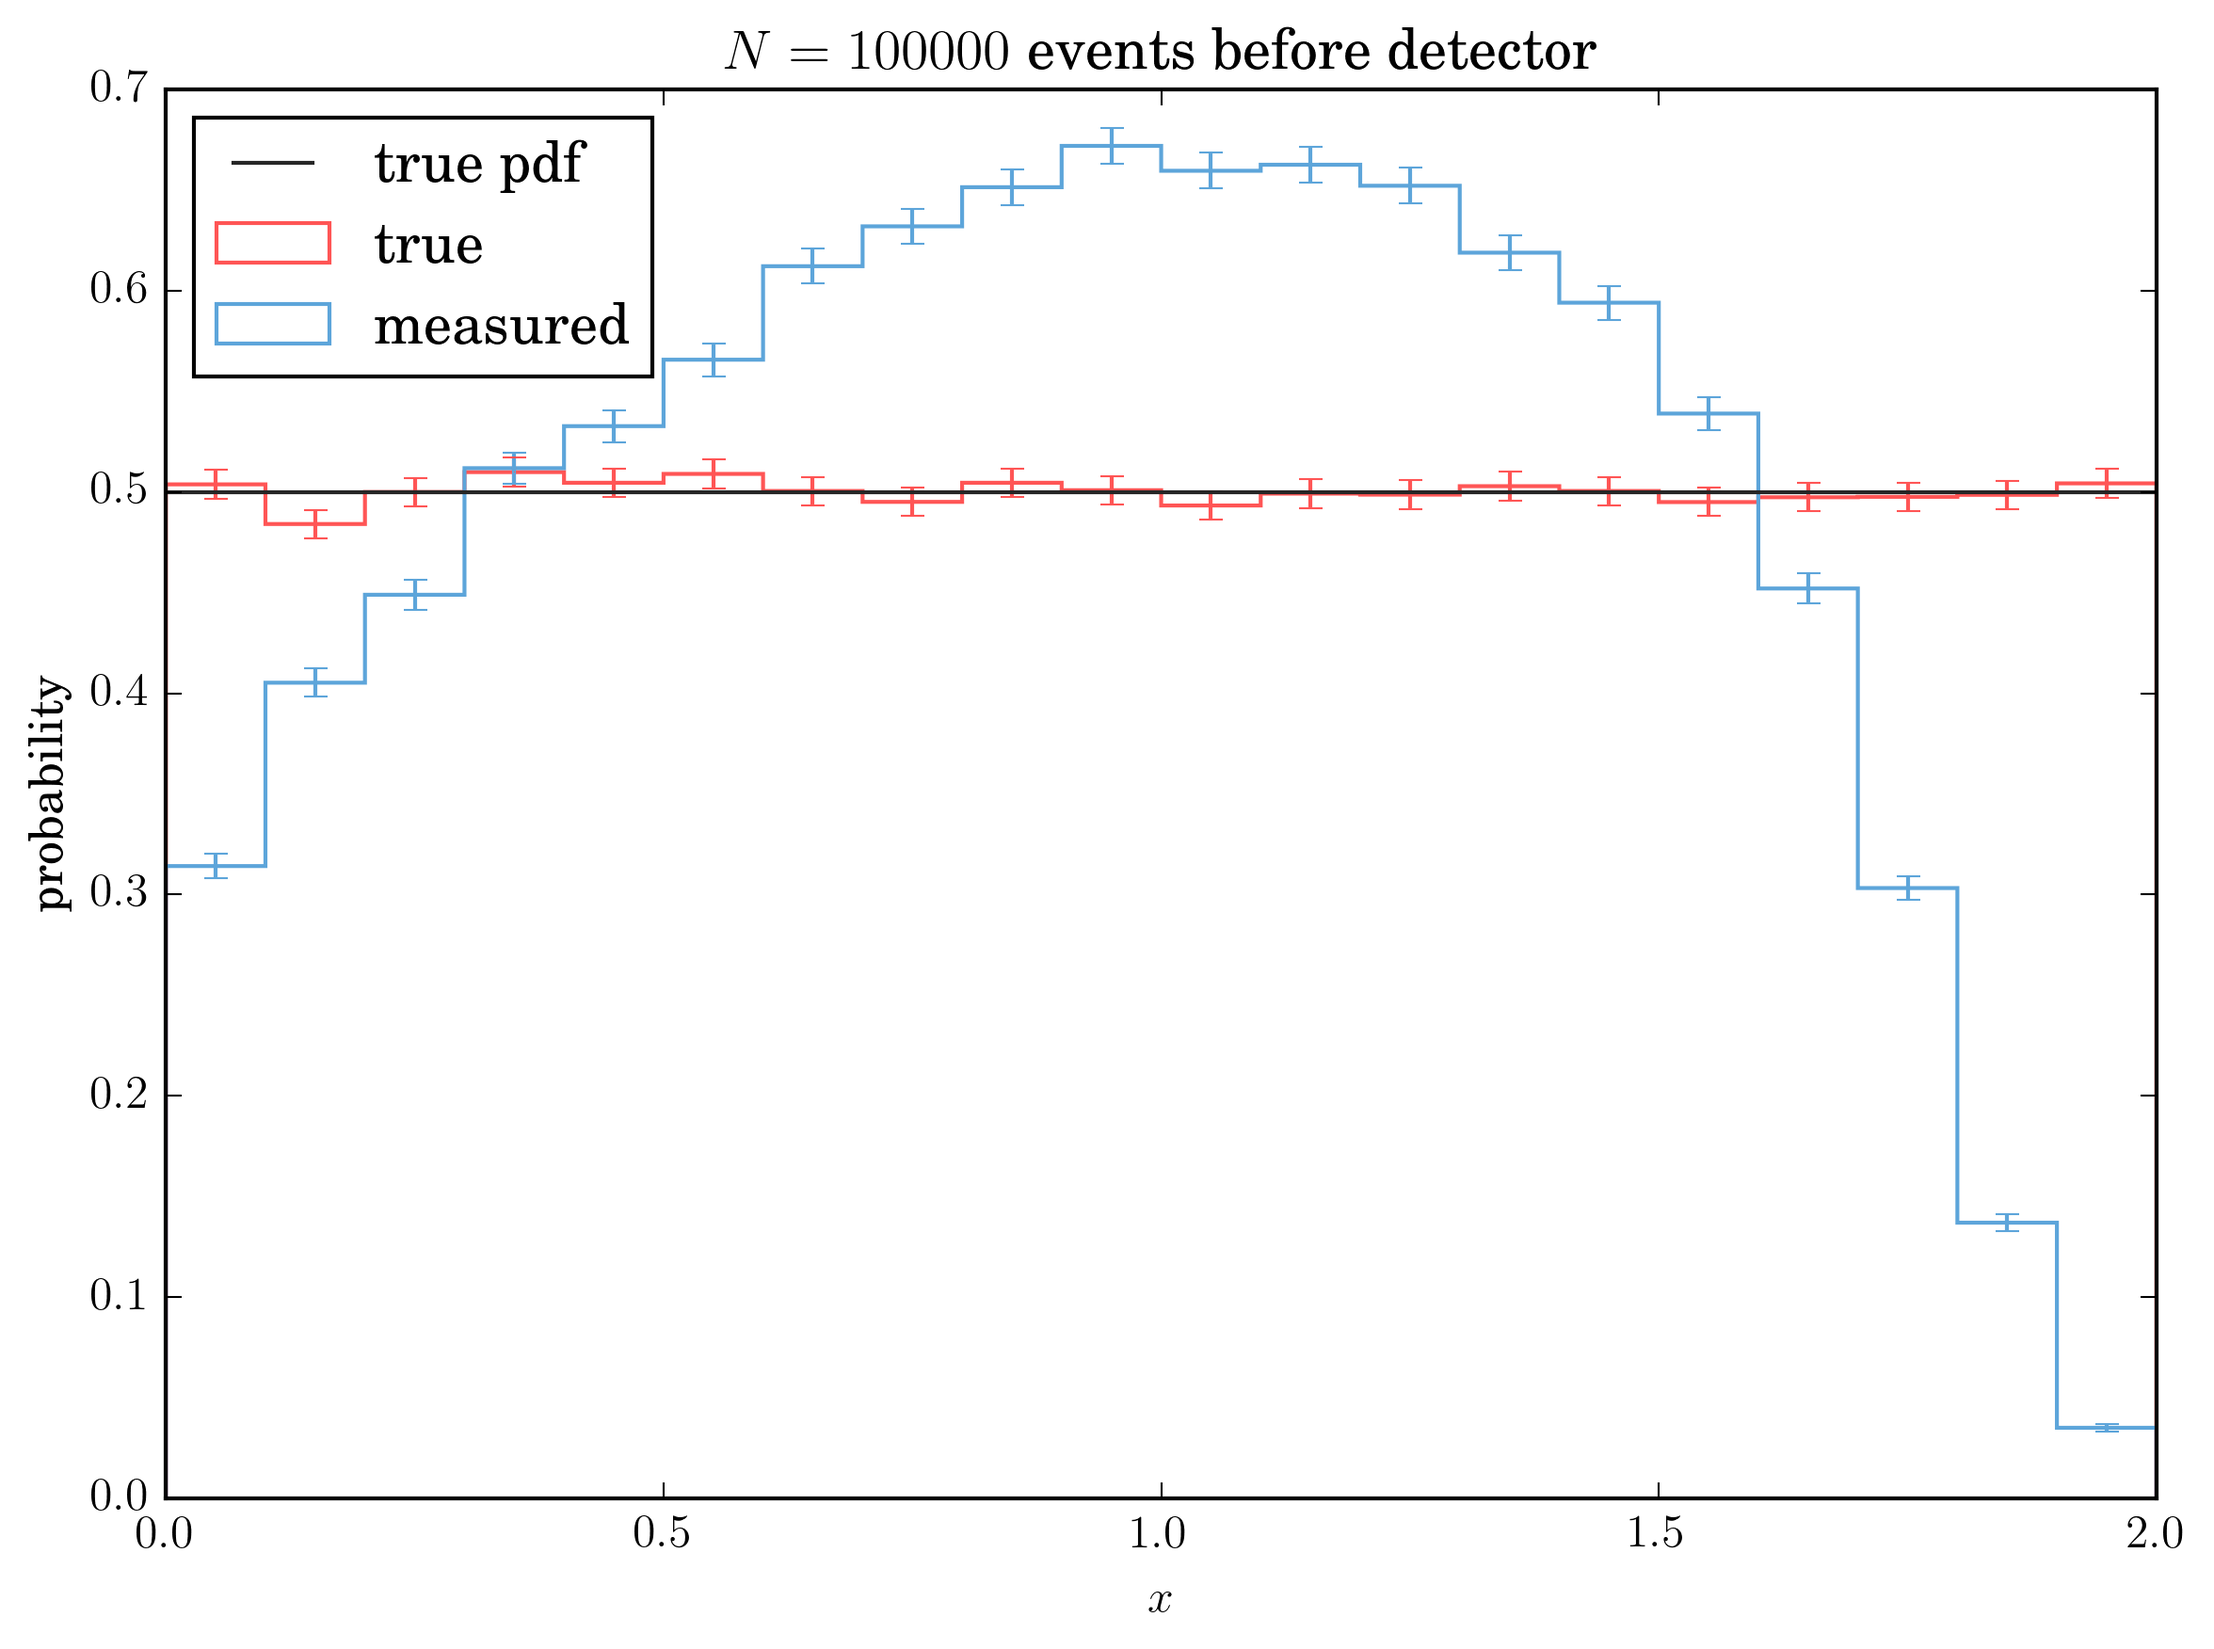
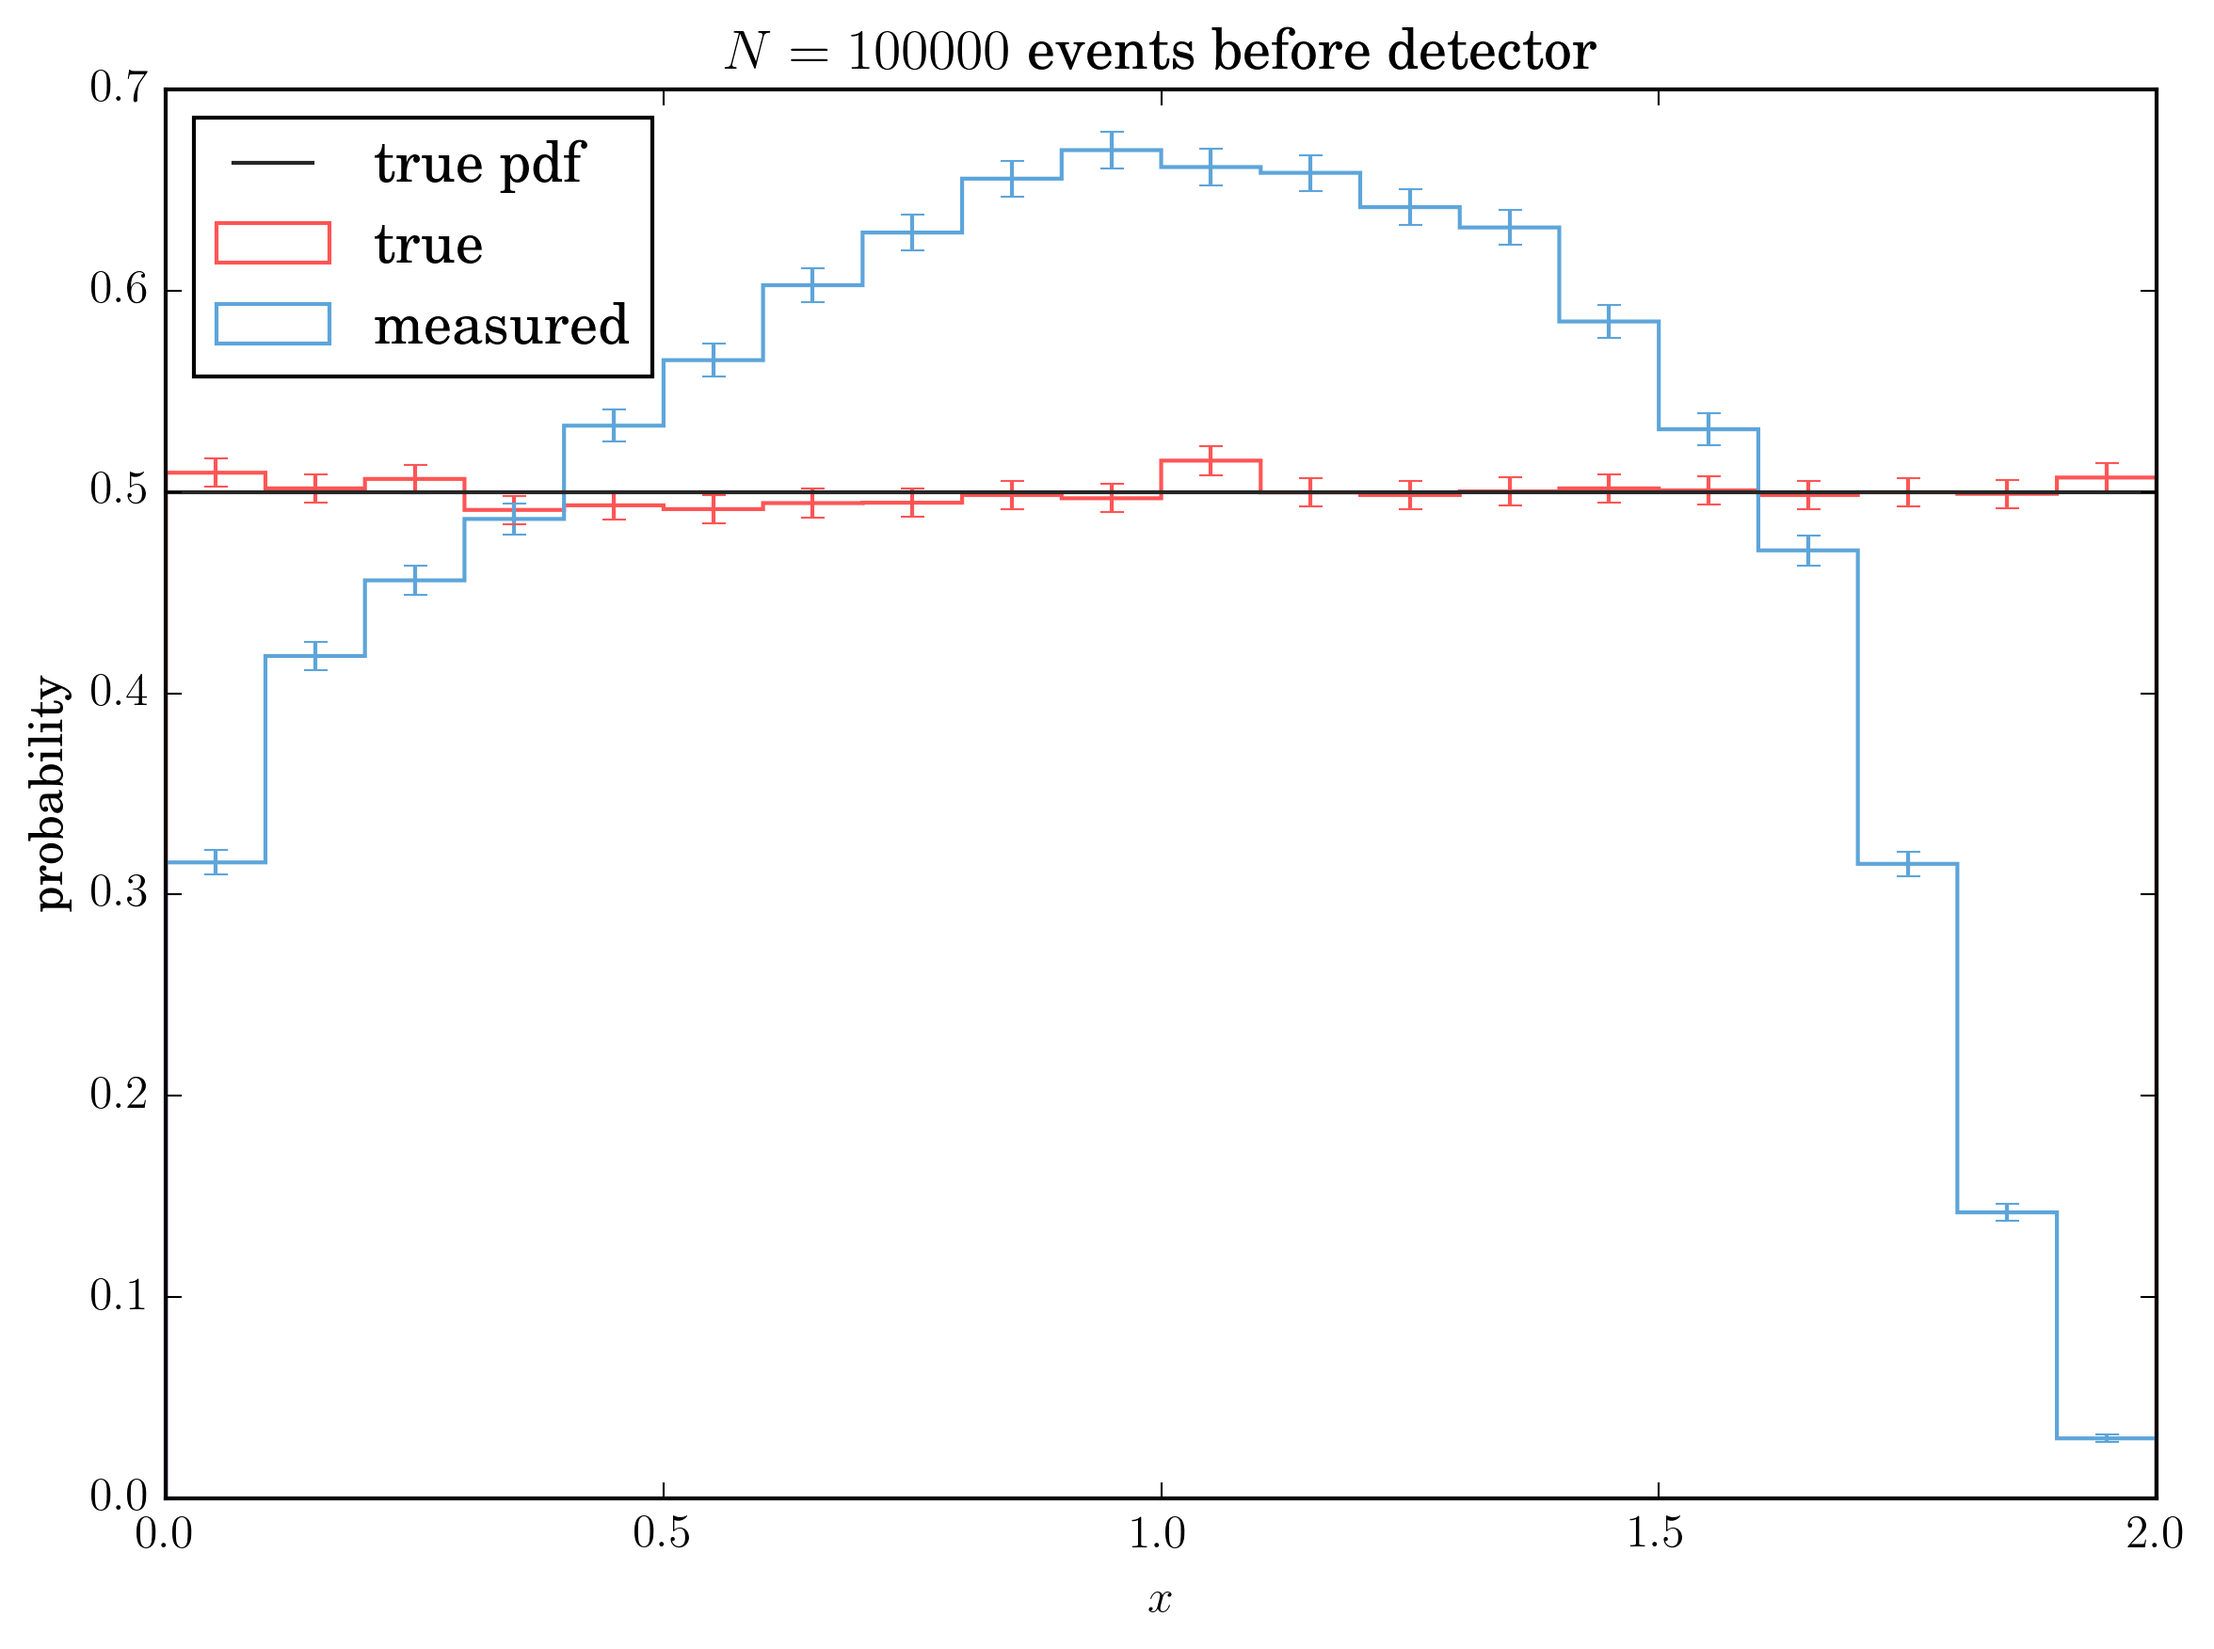
added regularization. TODO: Normalization of x gets wrong, because of added reg term. Reg doesn't work as expected. Use reg also in preliminary fit?

diff --git a/unfold.py b/unfold.py
@@ -17,9 +17,12 @@ class unfold():
 	The method fit trains the model on training data, eg. MC data.
 
 	The method predict applies the trained model to test or real data.
+
+	Note:
 	The number of bins used to bin the true MC distribution is the same as the
 	number of bins used for the binning of the unfolded data. This is because
-	the ranks of the matrix and the vector must match in the unfolding equation.
+	the number of rows of the matrix and the vector must match in the
+	unfolding equation.
 	"""
 	def __init__(self, **kwargs):
 		"""
@@ -29,8 +32,6 @@ class unfold():
 
 		Parameters
 		----------
-		ndof : float
-			Degress of freedom for the regularization. Default: 10.
 		nbins_* : int
 			*true : Number of bins for the true MC trainig data.
 			*meas : Number of bins for the measured MC training data.
@@ -42,7 +43,7 @@ class unfold():
 			*pred : Range for the binning of the predicted unfolded data.
 			Default ranges are [0, 1].
 		"""
-		self.ndof = kwargs.pop("ndof", 10)
+		# self.ndof = kwargs.pop("ndof", 10)
 
 		self.range_true = kwargs.pop("range_true", [0, 1])
 		self.range_meas = kwargs.pop("range_meas", [0, 1])
@@ -74,8 +75,10 @@ class unfold():
 		# Create equally spaced bins in given range
 		bins_true = np.linspace(
 			self.range_true[0], self.range_true[1], self.nbins_true + 1)
+		self.h_true = bins_true[1] - bins_true[0]
 		bins_meas = np.linspace(
 			self.range_meas[0], self.range_meas[1], self.nbins_meas + 1)
+		self.h_meas = bins_meas[1] - bins_meas[0]
 
 		# Get bin indices for each single event
 		bin_index_true = np.digitize(true, bins=bins_true)
@@ -107,9 +110,14 @@ class unfold():
 		return self.A
 
 
-	def predict(self, data, data_weights=None):
+	def predict(self, data, data_weights=None, ndof=10):
 		"""
 		Use trained model matrix A on prediction data.
+
+		Parameters
+		----------
+		ndof : float
+			Degress of freedom for the regularization. Default: 10.
 
 		Returns
 		-------
@@ -117,6 +125,29 @@ class unfold():
 			Array of predicted, unfolded distribution, calculated by applying
 			the trained response matrix to the real measured data.
 		"""
+		def reg(x):
+			"""
+			Return the regularization term for a given set of bin entires x
+			describing the target function.
+
+			Calculate regularization term dependent on the curvature of
+			histogram described by the current x values, which is the
+			discretized integral over second derivation squared:
+				   int (f''(x))^2 dx
+				-> sum (f''(x))^2 * h
+			with the second numerical derivate at every position x[j]
+				f'' = (f(x[j-1]) - 2f(x[j]) + f(x[j+1])) / h^2
+			and the bin width (here equal for every bin)
+				h = x[j] - x[j-1] = x[1] - x[0] = const
+			"""
+			f2_squared = 0.
+			for j in np.arange(1, self.nbins_true-1):
+				f2_squared += (x[j-1] - 2*x[j] + x[j+1]) / self.h_true**3
+
+			regularization = 0.5 * ndof * f2_squared
+
+			return regularization
+
 		def chi2(x, *args):
 			"""
 			Approximating chi-square fit to obtain initial values for the
@@ -130,7 +161,7 @@ class unfold():
 			y_meas = np.array(args)
 			# Expected number of events for a specific choice of x
 			y = np.dot(self.A, x)
-			chi2 = np.sum( (y_meas - y)**2 / y_meas )
+			chi2 = np.sum( (y_meas - y)**2 / y_meas ) + reg(x)
 
 			return chi2
 
@@ -156,7 +187,7 @@ class unfold():
 			y_meas = np.array(args)
 			# Expected number of events for a specific choice of x
 			y = np.dot(self.A, x)
-			llh = np.sum( y - y_meas * np.log(y))
+			llh = np.sum( y - y_meas * np.log(y)) + reg(x)
 
 			return llh
 

diff --git a/mc_data_gen.py b/mc_data_gen.py
@@ -27,6 +27,9 @@ class NullUnfoldData(object):
 		If range[0] is <0, the shift function shifts every number<0 to 0.
 	N : int
 		Number of points sampled from the pdf for the true distribution
+	seed : int
+		Seed for the np.random.RandomState random number generator.
+		Default=11235813
 
 	Functions
 	---------
@@ -45,6 +48,11 @@ class NullUnfoldData(object):
 		self.N = kwargs.pop("N", 10000)
 		self.xl = self.range[0]
 		self.xh = self.range[1]
+		self.seed = kwargs.pop("seed", 11235813)
+
+		# Create the random number generator with fixed seed to be able to
+		# reproduce results
+		self.rs = np.random.RandomState(self.seed)
 
 
 	def get_mc_sample(self):
@@ -109,7 +117,7 @@ class NullUnfoldData(object):
 		yl = 0.5
 		ym = 1
 		yh = 0.5
-		acceptance = ( np.random.uniform(size=self.N) <=
+		acceptance = ( self.rs.uniform(size=self.N) <=
 			self._parabola(data, yl, ym, yh) )
 		# If not accepted, set weight to 0
 		weights[~acceptance] = 0.
@@ -132,7 +140,7 @@ class NullUnfoldData(object):
 		presmeared = np.copy(measured)
 		# If values are smeareded to outside the bounds try again
 		while np.sum(overflow)>0:
-			measured[overflow] = presmeared[overflow] + np.random.normal(
+			measured[overflow] = presmeared[overflow] + self.rs.normal(
 				loc=0, scale=sigma, size=np.sum(overflow))
 			overflow = np.logical_or(measured<self.xl, measured>self.xh)
 
@@ -264,11 +272,11 @@ class LorentzianUnfoldData(NullUnfoldData):
 		# is above N, use the first N random numbers for the sample.
 		while len(data)<=self.N:
 			# Comparison function g(vn)=k
-			vn = np.random.uniform(low=self.xl, high=self.xh, size=self.N)
+			vn = self.rs.uniform(low=self.xl, high=self.xh, size=self.N)
 			# Get pdf values from f(vn), which shall be sampled from
 			fvn = self._pdf(vn, self.xl, self.xh)
 			# Accept if vn * uniform[0,1] * g(vn) < f(vn)
-			accept = (k  * np.random.uniform(size=self.N) < fvn)
+			accept = (k  * self.rs.uniform(size=self.N) < fvn)
 			# Append all accepted
 			data.extend(vn[accept])
 			# Count total generated randonm numbers for performance information
@@ -312,7 +320,7 @@ class FlatUnfoldData(NullUnfoldData):
 			(ID, data, weight)
 		"""
 		# Generate N unfiormly distributed events in [xl, xh]
-		self.data = np.random.uniform(low=self.xl, high=self.xh, size=self.N)
+		self.data = self.rs.uniform(low=self.xl, high=self.xh, size=self.N)
 
 		# Combine to recarray with fields (ID, data, weight)
 		self.true = np.empty((self.N, ), dtype=[

diff --git a/test_pred.py b/test_pred.py
@@ -23,7 +23,7 @@ unf = unfold.unfold(
 A = unf.fit(true["data"], meas["data"], meas["weight"])
 
 # Unfold the true distribtuion used for training to test the unfolding
-predicted_res = unf.predict(true["data"])
+predicted_res = unf.predict(true["data"], ndof=0.1)
 
 # Simpe inversion for comparison
 predicted_simple_inv = unf.predict_by_inverse(true["data"])
